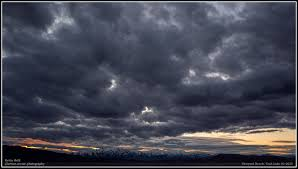
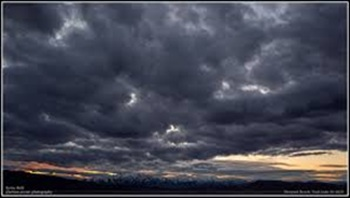
Messing around and fixing

diff --git a/Styles.css b/Styles.css
@@ -31,9 +31,9 @@ body {
 }
 
 .Line {
-position: sticky;
+position: relative;
 padding: 4px;
-top: 121px;
+top: 112px;
 z-index: 1;
 background:#344b50;
 }
@@ -100,52 +100,18 @@ background:#344b50;
 }
 .One {
   position: relative;
-  top: 25px;
+  top: 120px;
   display:inline-block;
-}
-.One h2{
-font-style: oblique;
-    font-family: 'Times New Roman', Times, serif;
-    font-weight: bold;
-    font-size: 1.4em;
-}
-.One h3{
-font-style: oblique;
+  font-style: oblique;
     font-family: 'Times New Roman', Times, serif;
     font-weight: bold;
     font-size: 1.2em;
-}
-
-.One h4{
-font-style: oblique;
-    font-family: 'Times New Roman', Times, serif;
-    font-weight: bold;
-    font-size: 1.2em;
-}
-
-.One img{
-  text-align: center;
-  display: block;
-  margin: 0px 700px;
-  justify-content: center;
-}
-
-.One .Three{
-font-style: oblique;
-    font-family: 'Times New Roman', Times, serif;
-    font-weight: bold;
-    font-size: 1em;
+  background-color: #567379;
 }
 .Two {
   position: relative;
-  top: 100px;
-  display:inline-block;
-}
-.Two img {
-  text-align: center;
-  display: block;
-  margin: 0px 500px;
-  justify-content: center;
+  top: 130px;
+  background-color: #567379;
 }
 footer {
     position: fixed;

diff --git a/index.html b/index.html
@@ -25,7 +25,7 @@
         <h3>Salt Lake City, UT</h3>
         <h4>Today's Weather</h4>
         <ul class="Three">
-          <img class="Four" src="Images_8/Cloudy1.jpg">
+          <img src="Images_8/Real_Cloudy_Weather.jpg">
           <li>Currently: Cloudy</li>
           <li>Current Tempature: 59°</li>
           <li>Feels Like: 57°</li>
